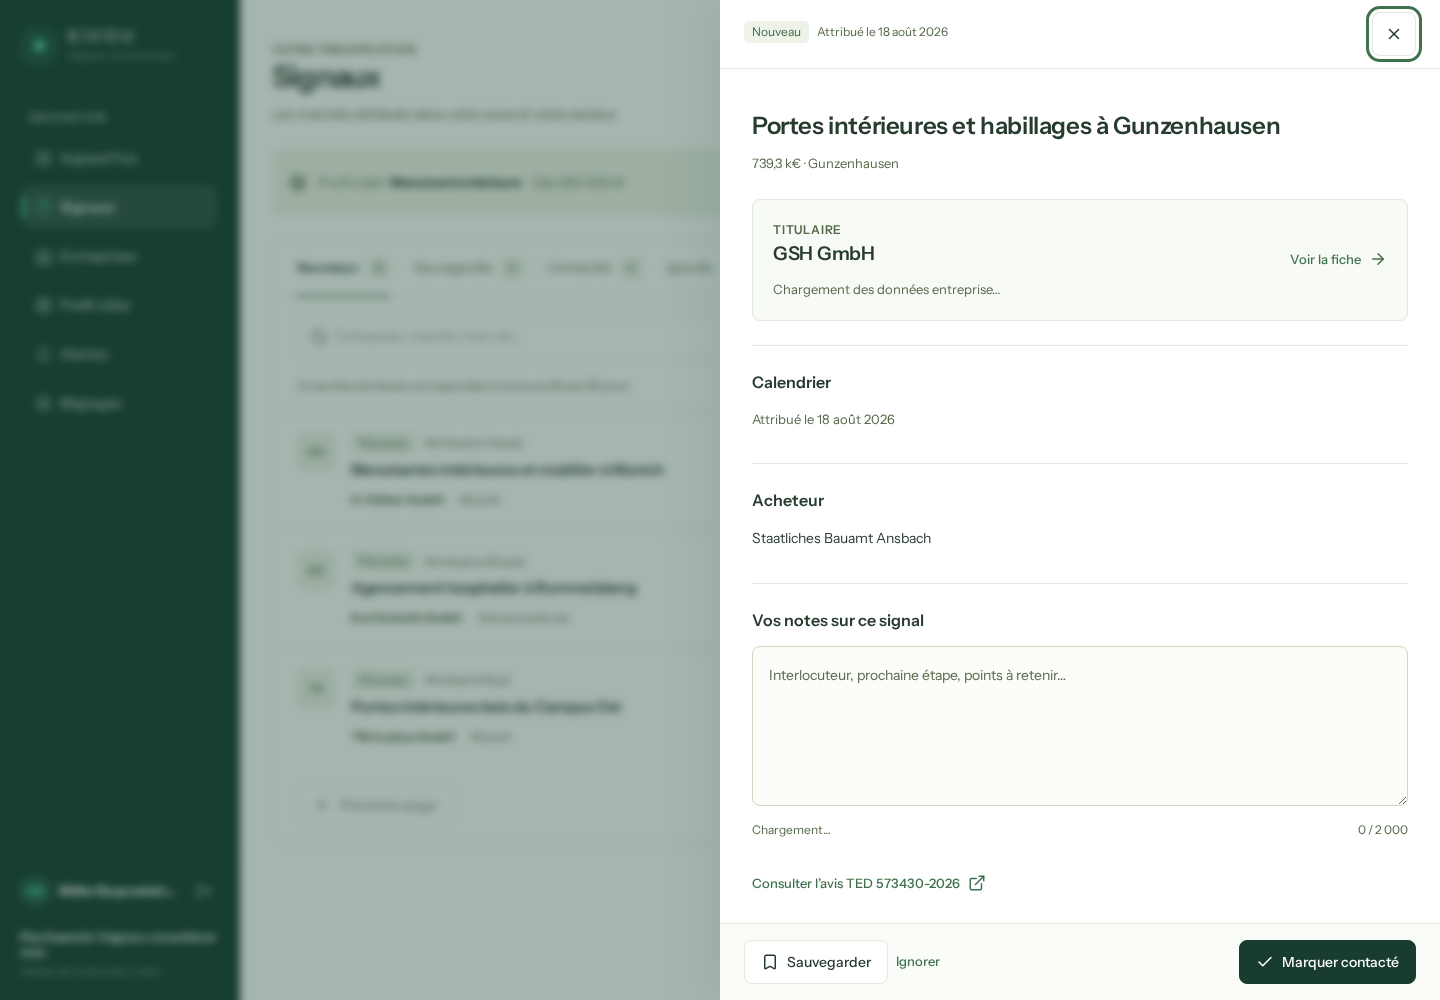
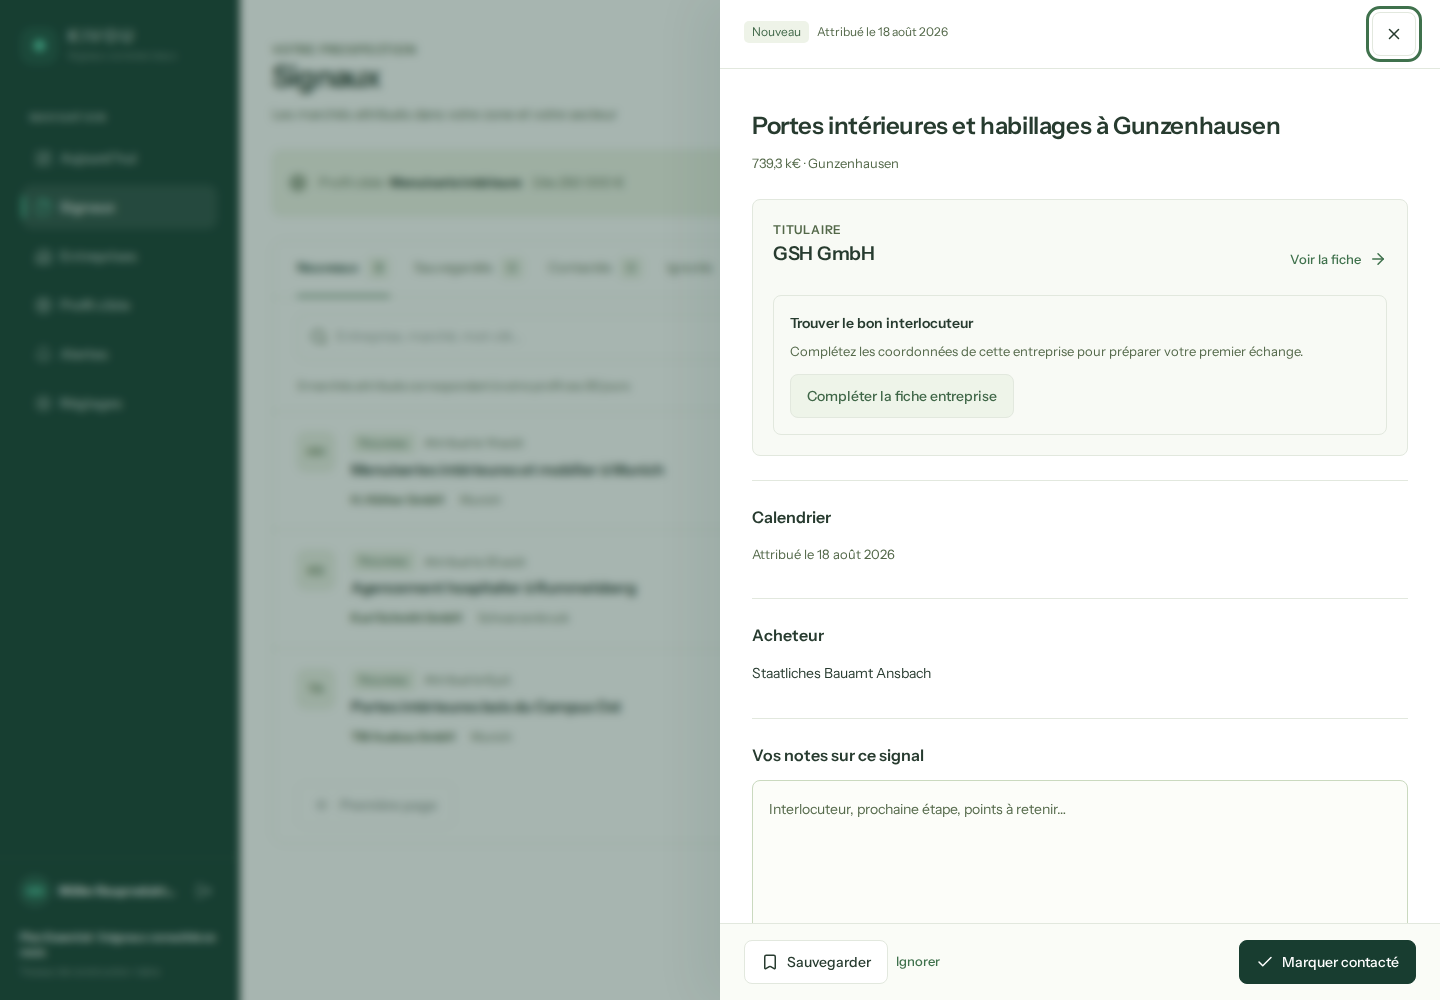
fix(billing): keep the paywall to two plans

diff --git a/frontend/src/prospecting/Prospecting.module.css b/frontend/src/prospecting/Prospecting.module.css
@@ -131,7 +131,6 @@
 .paywallStatus{min-height:260px;display:grid;place-items:center;align-content:center;gap:16px;text-align:center}
 .paywallPlans{display:grid;grid-template-columns:repeat(2,minmax(0,1fr));gap:18px;align-items:stretch;margin:0 auto;max-width:850px}
 .paywallPlans[data-count="1"]{grid-template-columns:minmax(0,520px);justify-content:center}
-.paywallPlans[data-count="3"]{grid-template-columns:repeat(3,minmax(0,1fr));max-width:none}
 .paywallPlan{position:relative;display:flex;flex-direction:column;padding:24px;border:1px solid var(--pv-line);border-radius:12px;background:#fff;min-width:0}
 .paywallRecommended{border:2px solid #6d9067;background:#fbfdf9;padding:23px;box-shadow:0 12px 30px #183d3012}
 .paywallPlanHead{display:flex;align-items:center;justify-content:space-between;gap:12px}
@@ -156,5 +155,5 @@
 .srOnly{position:absolute;width:1px;height:1px;margin:-1px;padding:0;border:0;clip:rect(0,0,0,0);overflow:hidden;white-space:nowrap}
 @media(max-width:1000px){.followupGrid{grid-template-columns:1fr}.workspace{padding:24px}.rowAside{max-width:180px}}
 @media(max-width:600px){
-  .workspace{padding:24px 16px}.heading{gap:12px;align-items:flex-start}.heading h1{font-size:28px}.heading p{font-size:13px}.tabs{padding:0 16px;gap:20px}.toolbar{padding:16px;gap:12px}.search{max-width:none}.toolbar select{font-size:12px;max-width:100%;flex:1}.resultMeta{padding:0 16px 16px}.signalRow{padding:16px;gap:12px;flex-wrap:wrap}.signalRow>.avatar{display:none}.rowMain{flex-basis:100%}.rowTitle{font-size:14px}.rowAside{flex-direction:row;align-items:center;justify-content:space-between;width:100%;max-width:none}.rowAside .actions{margin-left:auto}.detailBody{padding:24px 20px}.detailHead{padding:12px 16px}.detailTitle{font-size:22px!important}.detailFooter{padding:12px 16px}.detailFooter .primary{flex:1}.holder{padding:16px}.holderHead{gap:8px}.holderName{font-size:18px}.contactFacts{grid-template-columns:80px minmax(0,1fr);gap:8px 12px}.notes{font-size:16px;min-height:180px}.noteMeta{align-items:flex-start;gap:8px}.noteMeta>span:last-child{white-space:nowrap}.followup,.replies{padding:20px 16px}.week{gap:12px 20px;padding:16px}.targetBar{flex-wrap:wrap;padding:12px}.targetBar .textButton{margin-left:auto}.form{grid-template-columns:1fr}.fullWidth{grid-column:auto}.table,.table tbody{display:block}.table thead{display:none}.table tr{display:grid;grid-template-columns:minmax(0,1fr) auto;gap:12px;padding:16px;border-top:1px solid var(--pv-line)}.table td,.table td:first-child{padding:0;border:0}.table td:first-child{grid-column:1/-1}.table td:last-child{grid-column:2;grid-row:2/4}.table td:not(:first-child):not(:last-child){font-size:12px;padding-left:50px}.footer{padding:16px;flex-wrap:wrap}.holderHead>.textButton{font-size:12px;white-space:nowrap}.dialog{padding:20px}.commercialDialog{width:calc(100vw - 16px);max-height:calc(100dvh - 16px);border-radius:12px}.commercialDialog .detailHead{position:sticky;top:0;z-index:2;padding:8px 12px}.commercialDialog .detailBody{padding:22px 16px}.paywallIntro{margin-bottom:20px}.paywallIntro h2{font-size:26px}.paywallPlans,.paywallPlans[data-count="3"]{grid-template-columns:1fr;gap:14px}.paywallPlan{padding:20px}.paywallRecommended{padding:19px}.paywallDescription{min-height:0}.paywallFooter{align-items:flex-start;flex-direction:column}.paywallFooter .textButton{align-self:center}}
+  .workspace{padding:24px 16px}.heading{gap:12px;align-items:flex-start}.heading h1{font-size:28px}.heading p{font-size:13px}.tabs{padding:0 16px;gap:20px}.toolbar{padding:16px;gap:12px}.search{max-width:none}.toolbar select{font-size:12px;max-width:100%;flex:1}.resultMeta{padding:0 16px 16px}.signalRow{padding:16px;gap:12px;flex-wrap:wrap}.signalRow>.avatar{display:none}.rowMain{flex-basis:100%}.rowTitle{font-size:14px}.rowAside{flex-direction:row;align-items:center;justify-content:space-between;width:100%;max-width:none}.rowAside .actions{margin-left:auto}.detailBody{padding:24px 20px}.detailHead{padding:12px 16px}.detailTitle{font-size:22px!important}.detailFooter{padding:12px 16px}.detailFooter .primary{flex:1}.holder{padding:16px}.holderHead{gap:8px}.holderName{font-size:18px}.contactFacts{grid-template-columns:80px minmax(0,1fr);gap:8px 12px}.notes{font-size:16px;min-height:180px}.noteMeta{align-items:flex-start;gap:8px}.noteMeta>span:last-child{white-space:nowrap}.followup,.replies{padding:20px 16px}.week{gap:12px 20px;padding:16px}.targetBar{flex-wrap:wrap;padding:12px}.targetBar .textButton{margin-left:auto}.form{grid-template-columns:1fr}.fullWidth{grid-column:auto}.table,.table tbody{display:block}.table thead{display:none}.table tr{display:grid;grid-template-columns:minmax(0,1fr) auto;gap:12px;padding:16px;border-top:1px solid var(--pv-line)}.table td,.table td:first-child{padding:0;border:0}.table td:first-child{grid-column:1/-1}.table td:last-child{grid-column:2;grid-row:2/4}.table td:not(:first-child):not(:last-child){font-size:12px;padding-left:50px}.footer{padding:16px;flex-wrap:wrap}.holderHead>.textButton{font-size:12px;white-space:nowrap}.dialog{padding:20px}.commercialDialog{width:calc(100vw - 16px);max-height:calc(100dvh - 16px);border-radius:12px}.commercialDialog .detailHead{position:sticky;top:0;z-index:2;padding:8px 12px}.commercialDialog .detailBody{padding:22px 16px}.paywallIntro{margin-bottom:20px}.paywallIntro h2{font-size:26px}.paywallPlans{grid-template-columns:1fr;gap:14px}.paywallPlan{padding:20px}.paywallRecommended{padding:19px}.paywallDescription{min-height:0}.paywallFooter{align-items:flex-start;flex-direction:column}.paywallFooter .textButton{align-self:center}}
 @media(prefers-reduced-motion:reduce){.workspace *,.detail *,.dialog *,.commercialDialog *{scroll-behavior:auto;transition:none!important;animation:none!important}}

diff --git a/frontend/src/prospecting/components/UpgradeDialog.tsx b/frontend/src/prospecting/components/UpgradeDialog.tsx
@@ -22,7 +22,7 @@ const COPY = {
     loading: 'Chargement des offres…', unavailable: 'Les offres ne sont pas disponibles pour le moment.', retry: 'Réessayer',
     manage: 'Gérer ma facturation', recommended: 'Recommandé', perMonth: '/ mois',
     opening: 'Ouverture du paiement…', choose: 'Choisir {plan} — {price}/mois',
-    essential: 'Pour prospecter un marché précis.', pro: 'Pour suivre plusieurs marchés et agir plus vite.', other: 'Pour étendre votre prospection.',
+    essential: 'Pour prospecter un marché précis.', pro: 'Pour suivre plusieurs marchés et agir plus vite.',
     oneProfile: '1 profil cible', profiles: '{count} profils cibles', oneTerritory: '1 territoire', territories: 'Plusieurs territoires',
     signalsOne: 'Signaux correspondant à votre profil', signalsOther: 'Signaux correspondant à vos profils',
     evidence: 'Preuves et sources complètes', weekly: 'Alertes hebdomadaires', daily: 'Alertes quotidiennes', priority: 'Alertes prioritaires',
@@ -35,7 +35,7 @@ const COPY = {
     available: 'Your Discovery access does not cover this signal. Subscribe to access the next signals and their evidence.',
     loading: 'Loading plans…', unavailable: 'Plans are temporarily unavailable.', retry: 'Retry', manage: 'Manage billing', recommended: 'Recommended', perMonth: '/ month',
     opening: 'Opening checkout…', choose: 'Choose {plan} — {price}/month',
-    essential: 'For prospecting one specific contract.', pro: 'For tracking several markets and acting faster.', other: 'For expanding your prospecting.',
+    essential: 'For prospecting one specific contract.', pro: 'For tracking several markets and acting faster.',
     oneProfile: '1 target profile', profiles: '{count} target profiles', oneTerritory: '1 territory', territories: 'Multiple territories',
     signalsOne: 'Signals matching your profile', signalsOther: 'Signals matching your profiles', evidence: 'Complete evidence and sources', weekly: 'Weekly alerts', daily: 'Daily alerts', priority: 'Priority alerts',
     history: '{count} days of history', advanced: 'Advanced filters', reassurance: 'Secure payment · Monthly subscription · Cancel from your billing portal',
@@ -50,8 +50,7 @@ export function UpgradeDialog(props: { onClose: () => void; intent: CheckoutRetu
 
 function planName(code: string) {
   if (code === 'essential') return 'Essential'
-  if (code === 'pro') return 'Pro'
-  return code.charAt(0).toUpperCase() + code.slice(1)
+  return 'Pro'
 }
 
 function benefits(plan: CataloguePlan, copy: typeof COPY.fr | typeof COPY.en) {
@@ -84,7 +83,8 @@ function AccountUpgrade({ onClose, intent, accountId, upgradeTo }: { onClose: ()
   const resource = useResource(load)
   const target = validateCheckoutReturn(intent)
   const plans = useMemo(() => resource.data?.catalogue.plans.filter((plan) => {
-    if (!plan.purchasable || plan.plan_code === 'discovery' || !subscriptionPrice(plan)) return false
+    if (plan.plan_code !== 'essential' && plan.plan_code !== 'pro') return false
+    if (!plan.purchasable || !subscriptionPrice(plan)) return false
     return !upgradeTo || upgradeTo.includes(plan.plan_code)
   }) ?? [], [resource.data, upgradeTo])
   const canChoose = resource.data?.status.billing_action === 'choose_plan'
@@ -130,7 +130,7 @@ function AccountUpgrade({ onClose, intent, accountId, upgradeTo }: { onClose: ()
             const price = subscriptionPrice(plan)!
             const name = planName(plan.plan_code)
             const formattedPrice = money(price.amount_minor_units, price.currency.toUpperCase())
-            const description = plan.plan_code === 'essential' ? copy.essential : plan.plan_code === 'pro' ? copy.pro : copy.other
+            const description = plan.plan_code === 'essential' ? copy.essential : copy.pro
             return <section className={`${styles.paywallPlan} ${plan.recommended ? styles.paywallRecommended : ''}`} key={plan.plan_code}>
               <div className={styles.paywallPlanHead}><h3>{name}</h3>{plan.recommended && <span className={styles.paywallBadge}>{copy.recommended}</span>}</div>
               <p className={styles.paywallPrice}><strong>{formattedPrice}</strong> <span>{copy.perMonth}</span></p>

diff --git a/frontend/src/prospecting/__tests__/upgrade.test.tsx b/frontend/src/prospecting/__tests__/upgrade.test.tsx
@@ -49,7 +49,7 @@ describe('paywall commercial du signal verrouillé', () => {
     expect(screen.getByRole('dialog')).toHaveAttribute('data-plan-count', '1')
   })
 
-  it('reste piloté par le catalogue lorsqu’un troisième plan achetable y apparaît', async () => {
+  it('reste limité aux deux offres du site même si une réponse contient un troisième plan', async () => {
     const scale = {
       ...CATALOGUE.plans[2],
       plan_code: 'scale',
@@ -63,10 +63,8 @@ describe('paywall commercial du signal verrouillé', () => {
 
     expect(await screen.findByRole('heading', { name: 'Essential' })).toBeVisible()
     expect(screen.getByRole('heading', { name: 'Pro' })).toBeVisible()
-    expect(screen.getByRole('heading', { name: 'Scale' })).toBeVisible()
-    const scaleCard = screen.getByRole('heading', { name: 'Scale' }).closest('section')!
-    expect(within(scaleCard).getByText(/^199.*€$/)).toBeVisible()
-    expect(screen.getByRole('dialog')).toHaveAttribute('data-plan-count', '3')
+    expect(screen.queryByRole('heading', { name: 'Scale' })).not.toBeInTheDocument()
+    expect(screen.getByRole('dialog')).toHaveAttribute('data-plan-count', '2')
   })
 
   it('n’annonce pas trois signaux utilisés lorsque le compteur serveur dit le contraire', async () => {
